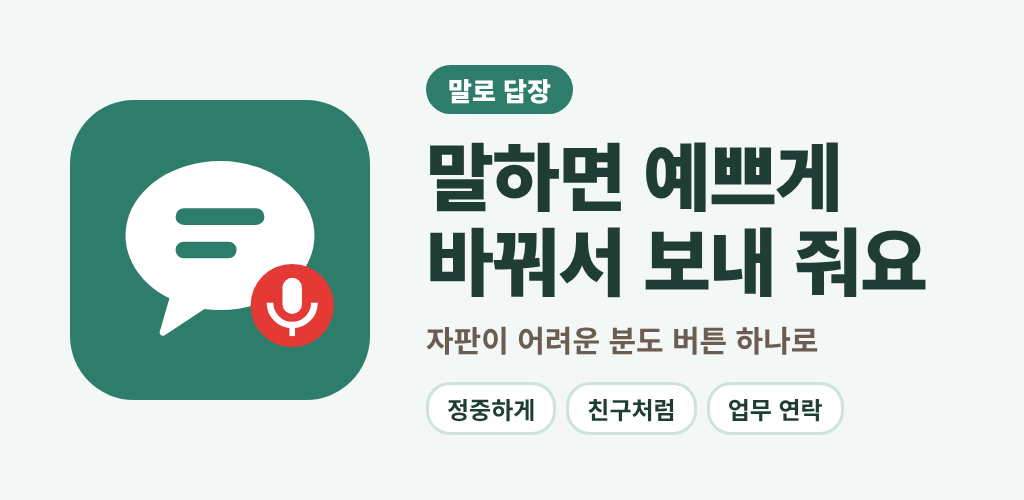
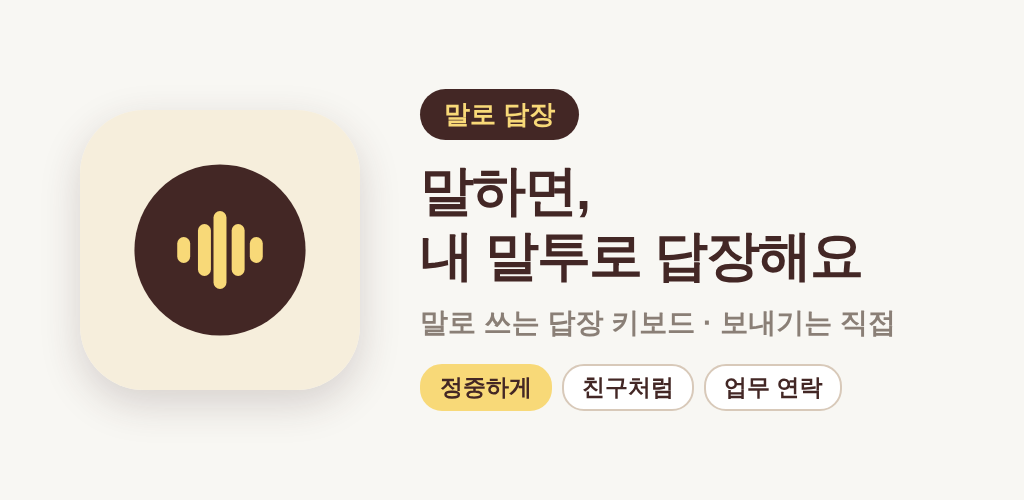
새 아이콘·스토어 그림 + 키보드 폴드 간격·테두리·😊 이모티콘 칸 (#61)
* 플레이판 아이콘 새 디자인(크림·갈색·노란 소리 막대) + 에뮬레이터 천지인 사진 자리로 누르기

Claude-Session: https://claude.ai/code/session_01Ju5z9XrRRiVb3yM2Hm66Qy

* 스토어 그림 새로: 아이콘 512·그래픽 1024x500·스크린샷 4장 (키보드 방식, 새 색)

Claude-Session: https://claude.ai/code/session_01Ju5z9XrRRiVb3yM2Hm66Qy

* 키보드: 폴드처럼 넓은 화면에서 자음·모음 사이 띄움, 키 간격 넓힘, 모든 키에 얇은 테두리 (오타 줄이기) + 에뮬레이터 넓은 화면 사진

Claude-Session: https://claude.ai/code/session_01Ju5z9XrRRiVb3yM2Hm66Qy

* 키보드에 😊 이모티콘 칸: 천지인은 삼성처럼 오른쪽 맨 아래(한/영은 !#1 옆), 두벌식은 한/영 옆 + 이모티콘 판(최근·무리별)

Claude-Session: https://claude.ai/code/session_01Ju5z9XrRRiVb3yM2Hm66Qy

* 스토어 스크린샷 1·3번을 새 키보드(테두리·이모티콘 칸·천지인 배열)로

Claude-Session: https://claude.ai/code/session_01Ju5z9XrRRiVb3yM2Hm66Qy

---------

diff --git a/android/app/src/main/java/kr/yunho/talkhelper/KeyboardService.kt b/android/app/src/main/java/kr/yunho/talkhelper/KeyboardService.kt
@@ -51,7 +51,7 @@ class KeyboardService : InputMethodService() {
     private lateinit var content: FrameLayout
 
     /** 자판 종류: 한글(두벌식/천지인) · 영어 · 숫자·기호 */
-    private enum class Layer { KO, EN, SYM }
+    private enum class Layer { KO, EN, SYM, EMOJI }
     private var layer = Layer.KO
     private var shift = false
 
@@ -93,6 +93,8 @@ class KeyboardService : InputMethodService() {
     private val screenWdp get() = resources.configuration.screenWidthDp
     private val screenHdp get() = resources.configuration.screenHeightDp
     /** 키 높이: 화면 높이에 맞춰 (너무 작거나 크지 않게) */
+    /** 넓은 화면 (폴드 펼침·태블릿): 자음·모음 사이를 띄우고 키 간격을 넓힘 */
+    private val wide get() = screenWdp >= 600
     private val keyH get() = dp((screenHdp * 0.062f).toInt().coerceIn(42, 56))
     private val keyTextSp get() = if (screenHdp < 640) 18f else 21f
 
@@ -226,6 +228,7 @@ class KeyboardService : InputMethodService() {
             Layer.KO -> if (prefs.keyboardLayout == "cji") cheonjiin() else qwerty(KO_ROWS, KO_SHIFT)
             Layer.EN -> qwerty(EN_ROWS, null)
             Layer.SYM -> symbols()
+            Layer.EMOJI -> emojis()
         }
         content.addView(keys)
     }
@@ -238,7 +241,8 @@ class KeyboardService : InputMethodService() {
         maxLines = 1
         setTextColor(Ui.BROWN)
         setTextSize(TypedValue.COMPLEX_UNIT_SP, if (label.length > 2) keyTextSp - 5 else keyTextSp)
-        background = Ui.rounded(this@KeyboardService, if (special) KEY_SPECIAL else Ui.CARD, 8)
+        // 얇은 테두리로 키 경계를 또렷하게 (옆 키를 잘못 누르는 일 줄이기)
+        background = Ui.rounded(this@KeyboardService, if (special) KEY_SPECIAL else Ui.CARD, 8, KEY_EDGE)
         elevation = dp(1).toFloat()
         Ui.iconize(this)
         if (repeat) {
@@ -254,8 +258,13 @@ class KeyboardService : InputMethodService() {
         } else setOnClickListener { Sounds.buzz(this@KeyboardService, 8, 40); onClick() }
     }
 
-    private fun keyLp(w: Float) = LinearLayout.LayoutParams(0, keyH, w).apply { setMargins(dp(2), dp(3), dp(2), dp(3)) }
+    private fun keyLp(w: Float) = LinearLayout.LayoutParams(0, keyH, w).apply {
+        val h = if (wide) dp(5) else dp(2); val v = if (wide) dp(4) else dp(3)
+        setMargins(h, v, h, v)
+    }
     private fun gap(w: Float): Pair<View, Float> = View(this) to w
+    /** 넓은 화면에서 자음·모음 사이 빈칸 (좁은 화면은 없음) */
+    private fun mid(): List<Pair<View, Float>> = if (wide) listOf(gap(0.9f)) else emptyList()
 
     private fun row(items: List<Pair<View, Float>>): LinearLayout = LinearLayout(this).apply {
         orientation = LinearLayout.HORIZONTAL
@@ -291,15 +300,17 @@ class KeyboardService : InputMethodService() {
         val bottom = listOf(
             key("!#1", special = true) { toSymbols() } to 1.5f,
             key("한/영", special = true) { if (ko) toEnglish() else toKorean() } to 1.2f,
-            key(",", special = true) { commitPlain(",") } to 1f,
-            key("띄어쓰기") { commitPlain(" ") } to 4.1f,
+            emojiKey() to 1f,
+            key(",", special = true) { commitPlain(",") } to 0.9f,
+            key("띄어쓰기") { commitPlain(" ") } to 3.4f,
             key(".", special = true) { commitPlain(".") } to 1f,
             key("↵", special = true) { enter() } to 1.7f,
         )
         return column(listOf(
-            row(r1),
-            row(listOf(gap(0.5f)) + r2 + listOf(gap(0.5f))),
-            row(listOf(shiftKey) + r3 + listOf(back)),
+            // 폴드처럼 넓으면 왼쪽(자음)·오른쪽(모음) 사이를 조금 띄움. 모든 줄에 같은 폭이라 키 줄이 어긋나지 않음
+            row(r1.take(5) + mid() + r1.drop(5)),
+            row(listOf(gap(0.5f)) + r2.take(5) + mid() + r2.drop(5) + listOf(gap(0.5f))),
+            row(listOf(shiftKey) + r3.take(4) + mid() + r3.drop(4) + listOf(back)),
             row(bottom),
         ))
     }
@@ -311,16 +322,70 @@ class KeyboardService : InputMethodService() {
         val rows = listOf(
             row(listOf(v("ㅣ", 'I'), v("•", 'D'), v("ㅡ", 'E'), key("⌫", special = true, repeat = true) { backspace() } to 1f)),
             row(listOf(c("ㄱㅋ", "ㄱㅋㄲ"), c("ㄴㄹ", "ㄴㄹ"), c("ㄷㅌ", "ㄷㅌㄸ"), key("↵", special = true) { enter() } to 1f)),
-            row(listOf(c("ㅂㅍ", "ㅂㅍㅃ"), c("ㅅㅎ", "ㅅㅎㅆ"), c("ㅈㅊ", "ㅈㅊㅉ"), key("!#1", special = true) { toSymbols() } to 1f)),
+            row(listOf(c("ㅂㅍ", "ㅂㅍㅃ"), c("ㅅㅎ", "ㅅㅎㅆ"), c("ㅈㅊ", "ㅈㅊㅉ"),
+                key("!#1", special = true) { toSymbols() } to 0.5f, key("한/영", special = true) { toEnglish() } to 0.5f)),
             // 휴대폰 숫자판처럼: ㅇㅁ 은 가운데(0 자리), 왼쪽 문장부호, 오른쪽 띄어쓰기
             row(listOf(
                 key(".,?!") { cyclePunct() } to 1f,
                 c("ㅇㅁ", "ㅇㅁ"),
                 key("띄어쓰기") { commitPlain(" ") } to 1f,
-                key("한/영", special = true) { toEnglish() } to 1f,
+                // 삼성 천지인처럼 오른쪽 맨 아래는 이모티콘
+                emojiKey() to 1f,
             )),
         )
         return column(rows)
+    }
+
+    // ───────── 이모티콘 ─────────
+
+    private var emojiFrom = Layer.KO
+    private fun emojiKey(): TextView = key("😊", special = true) { finishComposing(); emojiFrom = layer; layer = Layer.EMOJI; showKeys() }
+        .apply { contentDescription = "이모티콘" }
+
+    private fun recentEmojis(): List<String> =
+        getSharedPreferences("settings", MODE_PRIVATE).getString("recentEmoji", "").orEmpty().split(' ').filter { it.isNotBlank() }
+
+    private fun useEmoji(e: String) {
+        commitPlain(e)
+        val list = (listOf(e) + recentEmojis().filter { it != e }).take(16)
+        getSharedPreferences("settings", MODE_PRIVATE).edit().putString("recentEmoji", list.joinToString(" ")).apply()
+    }
+
+    /** 이모티콘 판: 최근 쓴 것 + 무리별, 아래 줄은 돌아가기·지우기·띄어쓰기·줄바꿈 */
+    private fun emojis(): View {
+        val cols = if (wide) 12 else 8
+        val grid = LinearLayout(this).apply { orientation = LinearLayout.VERTICAL; setPadding(dp(4), 0, dp(4), 0) }
+        fun group(title: String, list: List<String>) {
+            if (list.isEmpty()) return
+            grid.addView(TextView(this).apply {
+                text = title; setTextColor(Ui.MUTED); setTextSize(TypedValue.COMPLEX_UNIT_SP, 13f)
+                setPadding(dp(4), dp(8), 0, dp(2))
+            })
+            list.chunked(cols).forEach { line ->
+                val r = LinearLayout(this).apply { orientation = LinearLayout.HORIZONTAL }
+                line.forEach { e ->
+                    r.addView(TextView(this).apply {
+                        text = e; gravity = Gravity.CENTER
+                        setTextSize(TypedValue.COMPLEX_UNIT_SP, 26f)
+                        setOnClickListener { Sounds.buzz(this@KeyboardService, 8, 40); useEmoji(e) }
+                    }, LinearLayout.LayoutParams(0, dp(48), 1f))
+                }
+                repeat(cols - line.size) { r.addView(View(this), LinearLayout.LayoutParams(0, dp(48), 1f)) }
+                grid.addView(r)
+            }
+        }
+        group("최근", recentEmojis())
+        EMOJI_GROUPS.forEach { (t, l) -> group(t, l.split(' ')) }
+        val scroll = ScrollView(this).apply { addView(grid) }
+        val col = LinearLayout(this).apply { orientation = LinearLayout.VERTICAL }
+        col.addView(scroll, LinearLayout.LayoutParams(ViewGroup.LayoutParams.MATCH_PARENT, keyH * 3 + dp(18)))
+        col.addView(row(listOf(
+            key(if (emojiFrom == Layer.EN) "ABC" else "가", special = true) { layer = if (emojiFrom == Layer.EMOJI) Layer.KO else emojiFrom; showKeys() } to 1.5f,
+            key("띄어쓰기") { commitPlain(" ") } to 4f,
+            key("⌫", special = true, repeat = true) { backspace() } to 1.5f,
+            key("↵", special = true) { enter() } to 1.5f,
+        )))
+        return col
     }
 
     private fun symbols(): View {
@@ -712,6 +777,15 @@ class KeyboardService : InputMethodService() {
     companion object {
         private val KB_BG = android.graphics.Color.parseColor("#E9E4DC")
         private val KEY_SPECIAL = android.graphics.Color.parseColor("#D6CFC4")
+        private val EMOJI_GROUPS = listOf(
+            "자주 쓰는" to "😊 😂 🥰 😍 👍 🙏 ❤ 👏 🎉 😭 😅 🤗 😢 🙂 😆 💕",
+            "표정" to "😀 😃 😄 😁 😉 😌 🥹 😇 🤔 😮 😲 😳 🥲 😔 😞 😣 😤 😡 😴 🤒 😷 🤭 🫢 😎",
+            "손·몸" to "👋 🙌 👐 🤝 ✌ 👌 🤞 💪 👆 👉 ✋ 🙆 🙇 🙋 🫶 ✊",
+            "마음" to "❤ 🧡 💛 💚 💙 💜 🤍 💖 💗 💝 💞 💌 ✨ 🌟 ⭐ 💯",
+            "신앙" to "🙏 ✝ ⛪ 📿 🕊 🕯 📖 🔔 👼 🌹 ☦ 🎄",
+            "축하·일상" to "🎂 🎁 🎊 🌸 🌷 💐 ☕ 🍚 🍰 🍎 🏠 🚗 ☀ 🌧 ❄ 🌙",
+        )
+        private val KEY_EDGE = android.graphics.Color.parseColor("#CDBFAF")
         private val KO_ROWS = listOf("ㅂㅈㄷㄱㅅㅛㅕㅑㅐㅔ", "ㅁㄴㅇㄹㅎㅗㅓㅏㅣ", "ㅋㅌㅊㅍㅠㅜㅡ")
         private val KO_SHIFT = mapOf('ㅂ' to 'ㅃ', 'ㅈ' to 'ㅉ', 'ㄷ' to 'ㄸ', 'ㄱ' to 'ㄲ', 'ㅅ' to 'ㅆ', 'ㅐ' to 'ㅒ', 'ㅔ' to 'ㅖ')
         private val EN_ROWS = listOf("qwertyuiop", "asdfghjkl", "zxcvbnm")

diff --git a/docs/play-store/README.md b/docs/play-store/README.md
@@ -8,9 +8,9 @@
 | 무엇 | 어디 |
 |---|---|
 | 업로드할 앱 파일 (AAB) | https://github.com/mernial/malro-dapjang/releases/download/talk-helper/talk-helper-play.aab |
-| 앱 아이콘 512×512 | `docs/play-store/icon-512.png` |
+| 앱 아이콘 512×512 | `docs/play-store/icon-512.png` (2026-11-10 새 디자인: 크림·갈색 동그라미·노란 소리 막대, 앱 아이콘과 같음) |
 | 그래픽 이미지 1024×500 | `docs/play-store/feature-1024x500.png` |
-| 휴대폰 스크린샷 | `docs/play-store/screenshots/` — 1장(그림). **실제 앱 화면을 2~3장 더 찍어 넣으세요** (최소 2장) |
+| 휴대폰 스크린샷 1080×1920 | `docs/play-store/screenshots/01~04.png` (말하면 입력칸에 · 말투 · 두벌식/천지인 · 두 단계 시작). 에뮬레이터 사진(`ui-shots`의 keyboard_gesture·keyboard_cji·main_ready·main)으로 `make-store.mjs`가 만듦 — 같은 폴더에 NanumSquareRound R/B/EB woff2 와 shots.json 을 두고 `node make-store.mjs <출력 폴더>` |
 | 개인정보처리방침 | `talk-helper-privacy.html` (아래 '개인정보처리방침 주소' 참고) |
 
 ---
